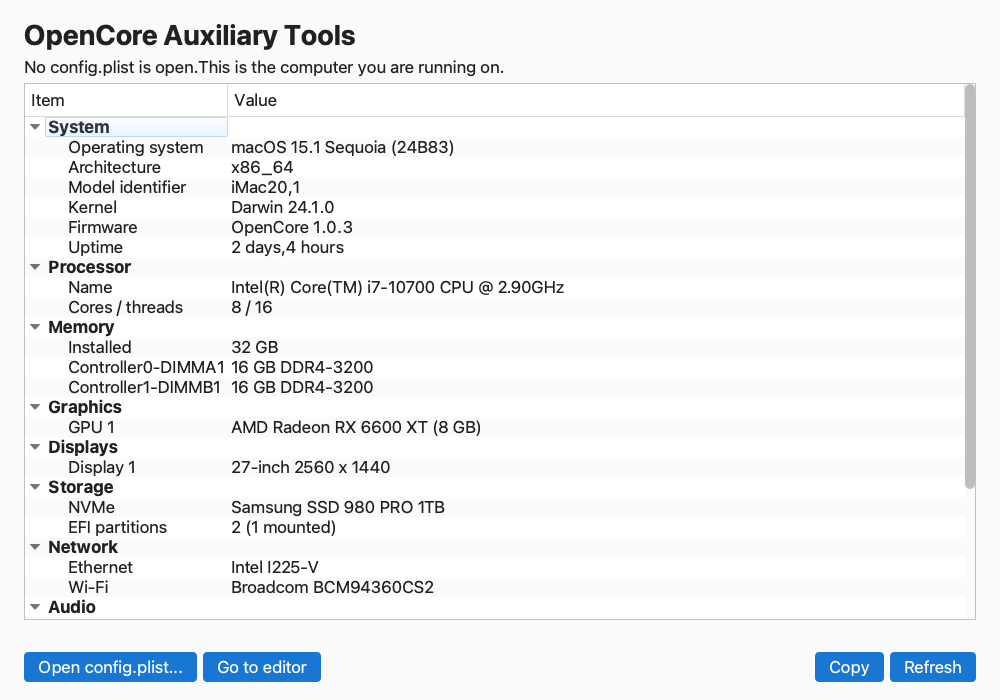
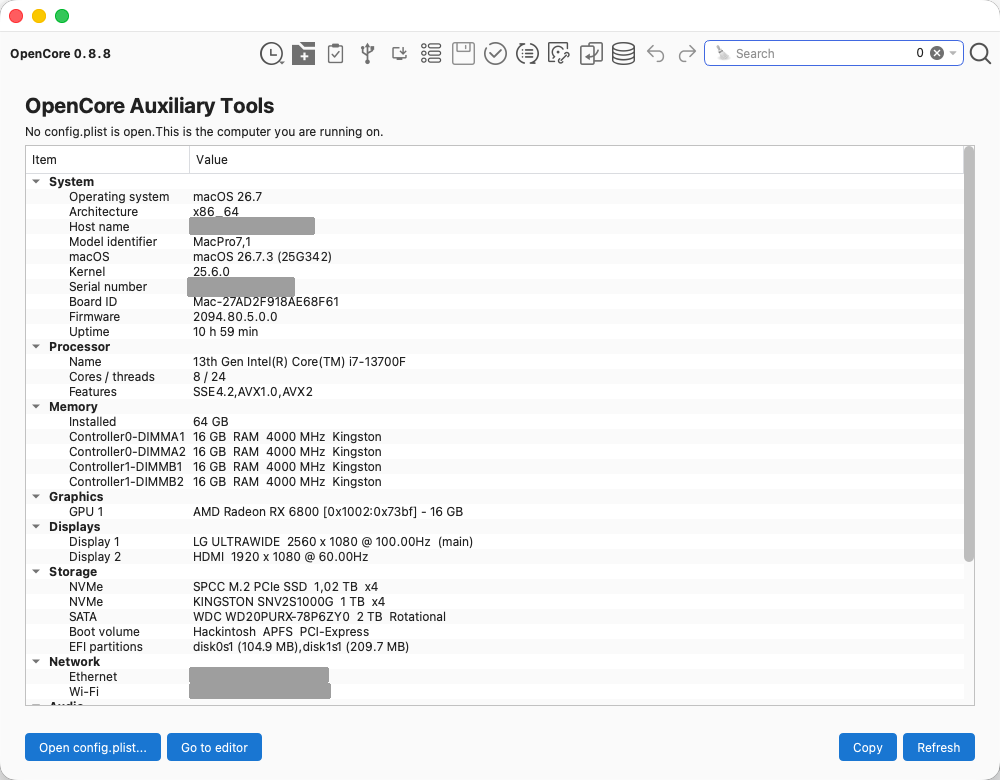
README: use real screenshots of the app, with personal data redacted (1.36.4)

diff --git a/src/aboutdialog.cpp b/src/aboutdialog.cpp
@@ -9,7 +9,7 @@ extern MainWindow* mw_one;
 extern QString strAppName, strIniFile;
 // Semantic version (MAJOR.MINOR.PATCH); keep in sync with the top entry of CHANGELOG.md
 // (checked by scripts/check_version.py).
-QString CurVersion = "1.36.3";
+QString CurVersion = "1.36.4";
 QString ocVer = "0.8.8";
 QString ocVerDev = "0.8.9";
 QString ocFrom, ocFromDev, strOCFrom, strOCFromDev;

diff --git a/CHANGELOG.md b/CHANGELOG.md
@@ -4,6 +4,11 @@ The version follows Semantic Versioning (`MAJOR.MINOR.PATCH`). The single source
 of truth is `CurVersion` in `src/aboutdialog.cpp`; the top entry below must match
 it (`python3 scripts/check_version.py`).
 
+## [1.36.4] — 2026-11-15
+
+### Changed
+- README screenshots of the start page, SIP calculator, macOS installer and Mount ESP are now real captures of the app instead of renders with sample data. The host name, serial number and MAC addresses on the start page, and the temporary download path in the installer, are blacked out. The update prompt is still a render, because it needs a newer release than the installed build to appear.
+
 ## [1.36.3] — 2026-11-15
 
 ### Changed
